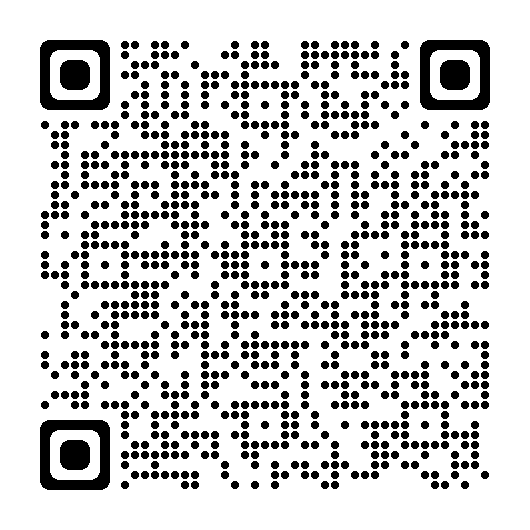
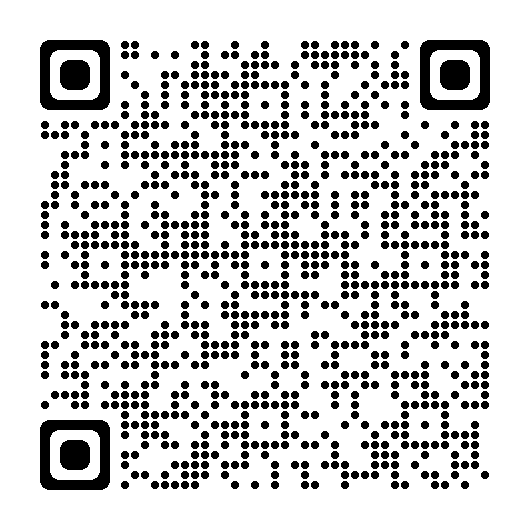
week 13

diff --git a/README.md b/README.md
@@ -355,10 +355,6 @@ pip cache purge
   - [ ] [with missing values](https://github.com/prasertcbs/basic-dataset/blob/master/usedcars_with_missing_values.csv)
 ---
 # Week 12: 29-Mar-2023
-- [ ] [📝 Digital literacy survey](https://cbschula.qualtrics.com/jfe/form/SV_3WV9mgSvTqfKX3w?courseid=2602454&acad=2022&sem=1&sec=1)
-
-![](./qrcode_cbschula.qualtrics.com.png)
-
 - [ ] [📺 week 11 clips](./week11_clips.md)
 ## Classification model
 - [ ] Logistic Regression
@@ -367,6 +363,9 @@ pip cache purge
 
 ---
 # Week 13: 5-Apr-2023
+- [ ] [📝 Digital literacy survey](https://cbschula.qualtrics.com/jfe/form/SV_ewJwinbSJSJoJoO?courseid=2602454&acad=2022&sem=1&sec=1&isgrad=0)
+![](./qrcode_cbschula.qualtrics.com.png)
+
 - [ ] [📺 week 13 clips](./week11_clips.md)
 ## Class Assignment
 - [ ] condo price prediction
